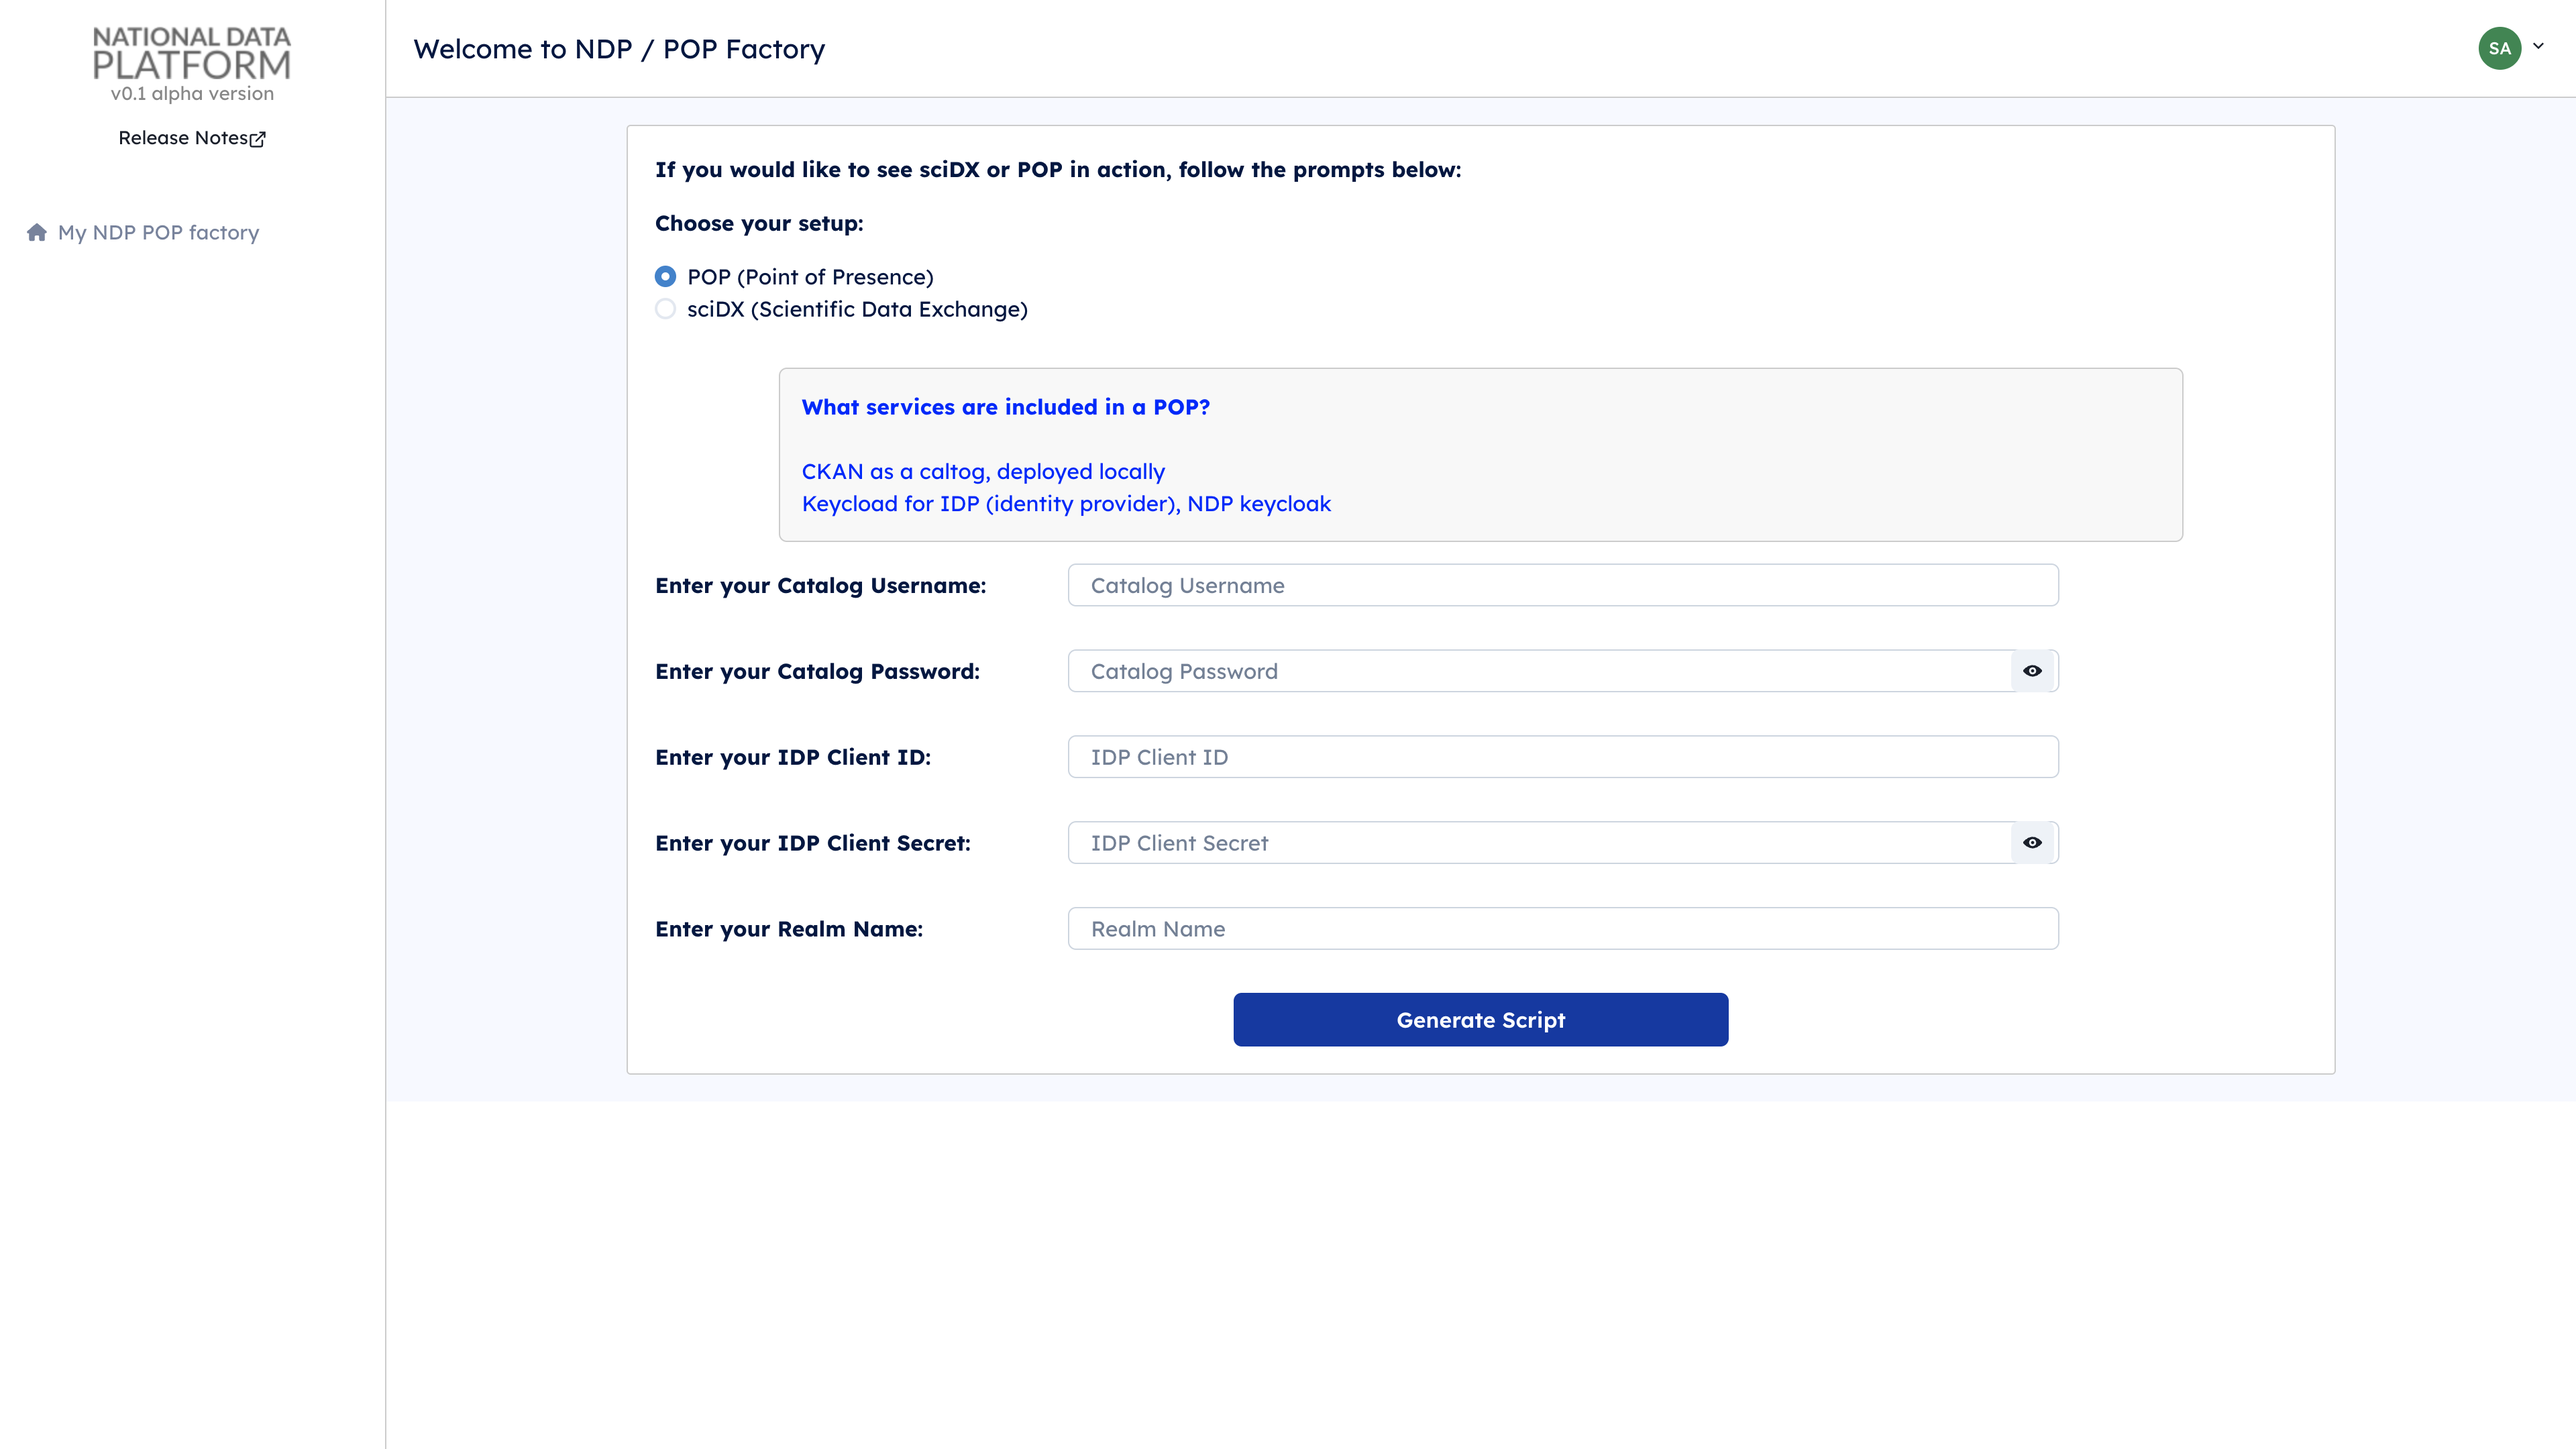
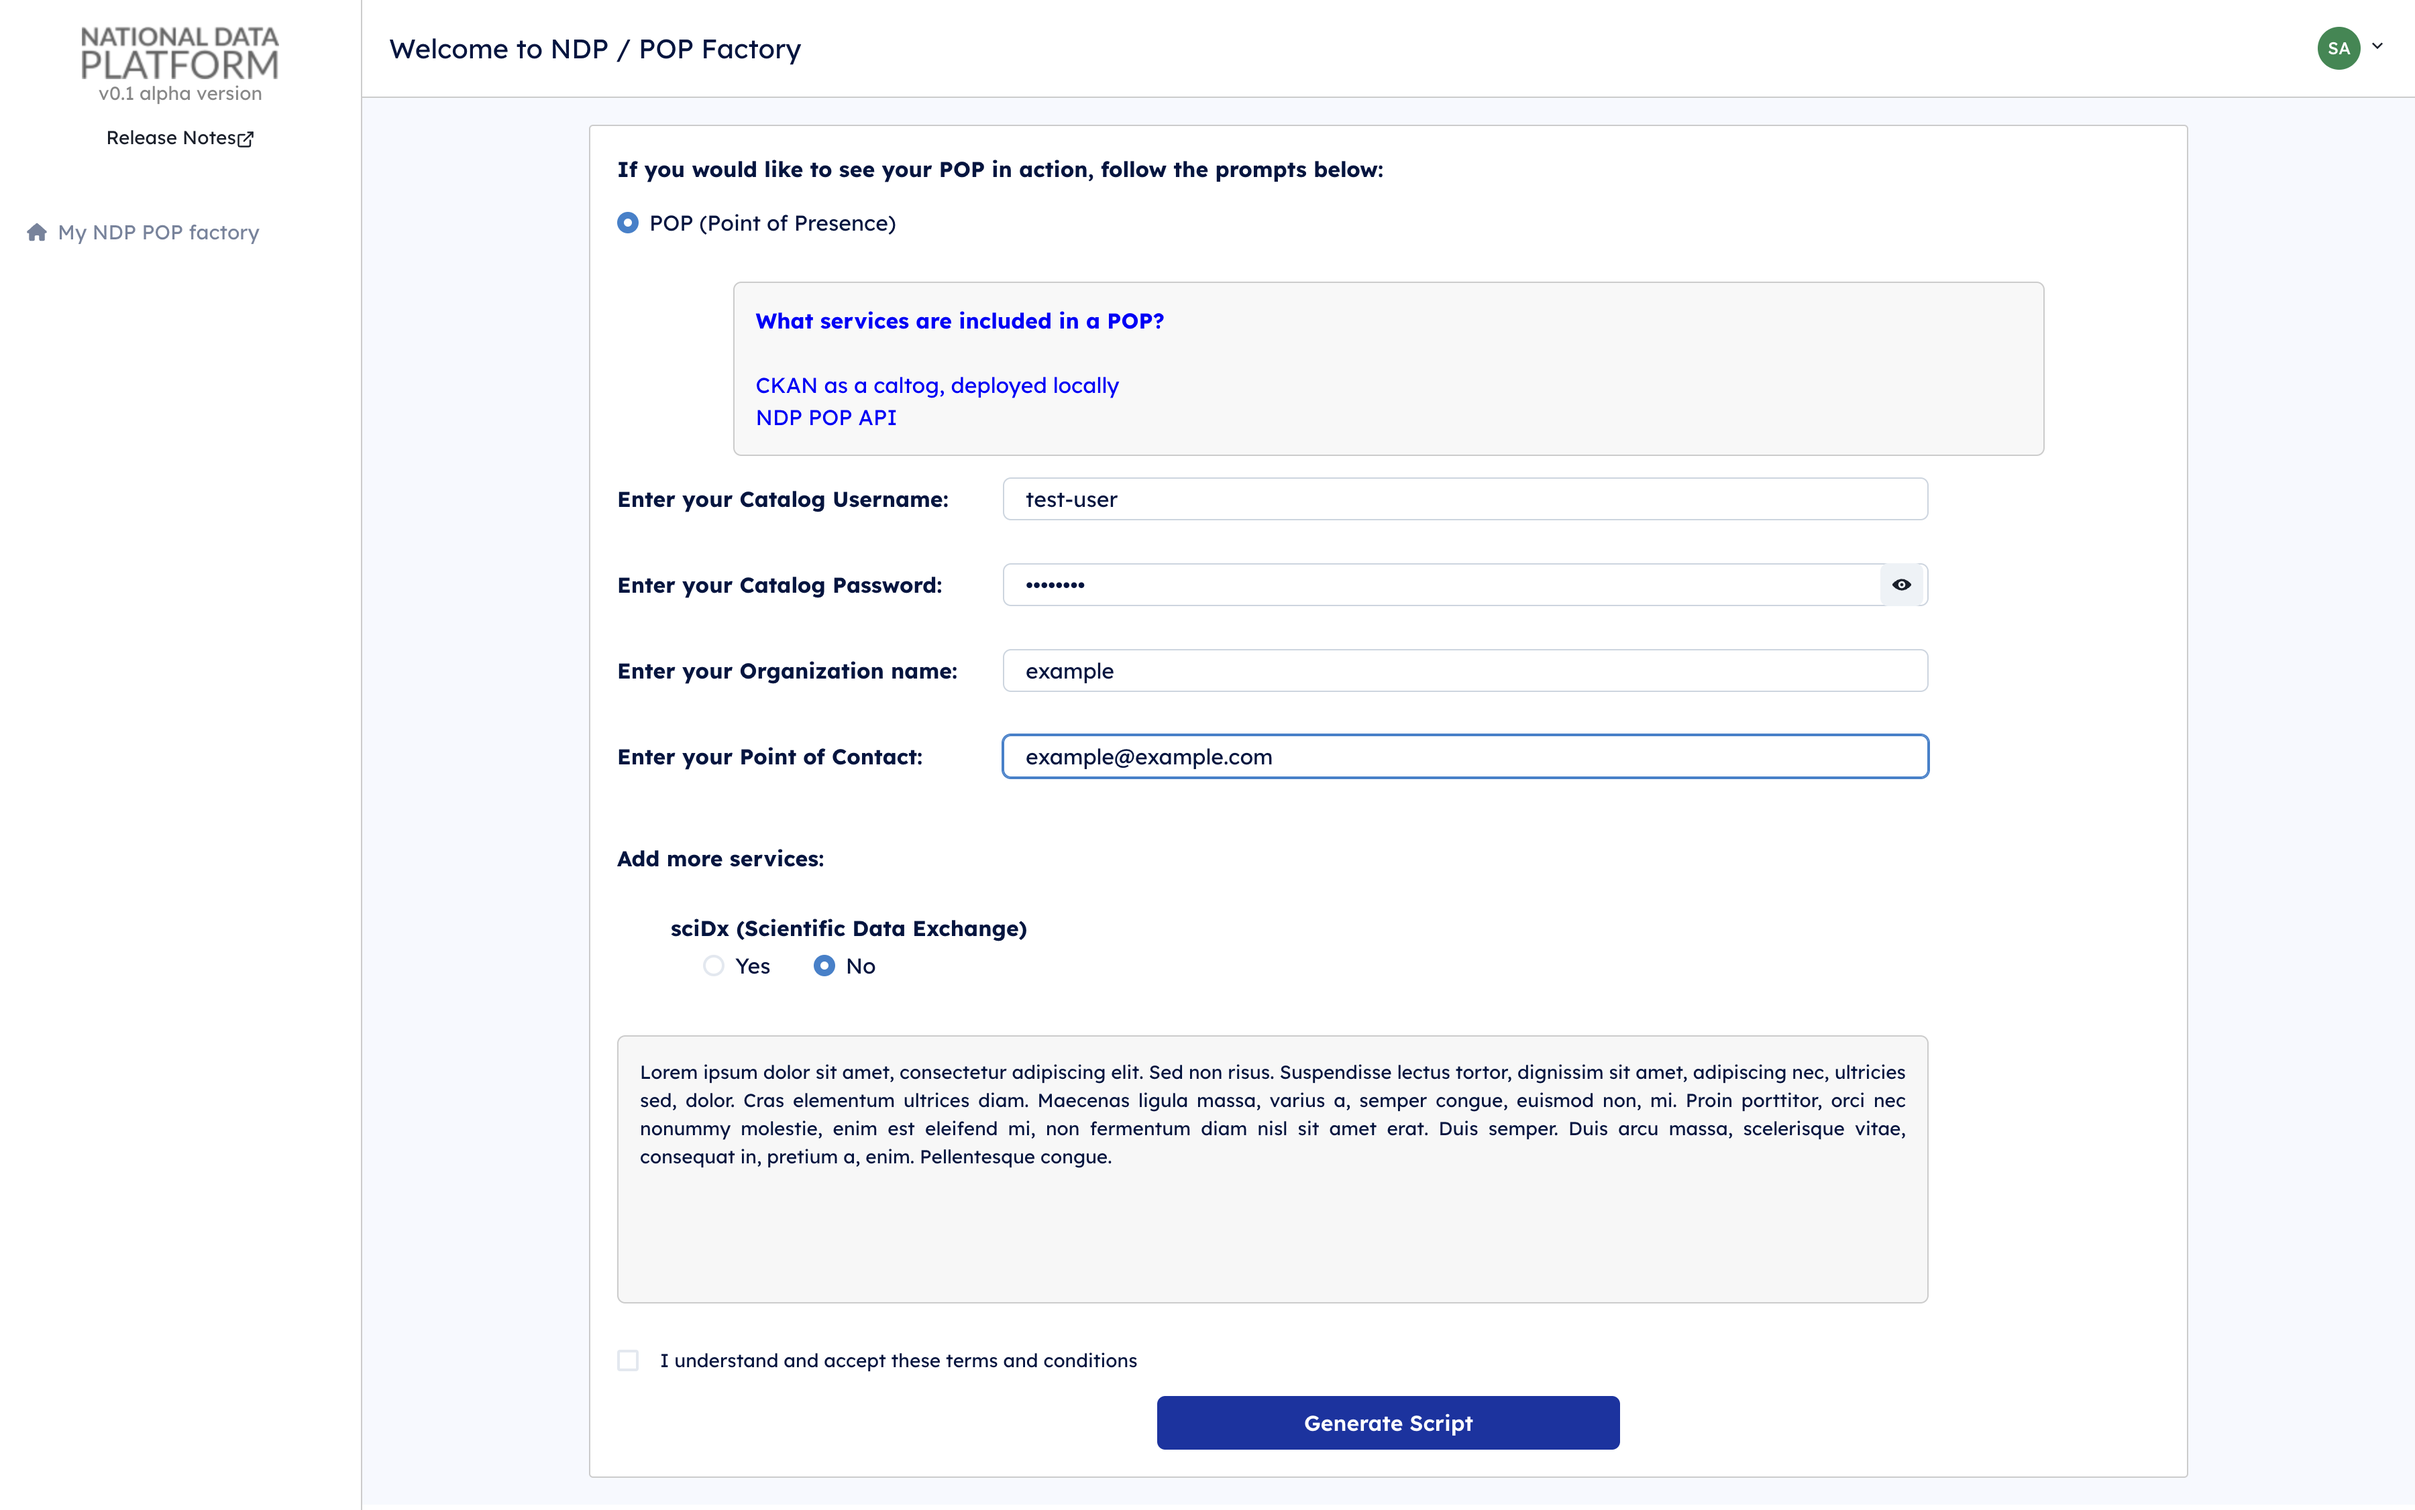
update-pop

diff --git a/docs/pop/setup.md b/docs/pop/setup.md
@@ -54,7 +54,7 @@ A form will appear asking for specific details:
    ![Step 5](./images/5.png)
 
 ## Step 6: Generate the Script
-Fill in the required fields and click on the **Proceed** to Accept the Terms of Service. Then press on the **Generate** button.
+Fill in the required fields and click on the **I understand and accept the terms and conditions** to Accept the Terms of Service. Then press on the **Generate Script** button.
 
    ![Step 6](./images/6.png)
 
@@ -70,8 +70,8 @@ On your server, open a text editor (like `nano` or `vim`) and paste the copied s
 
 ## Step 9: Run the Setup Script
 Run the script by executing the following command:
-    ```bash
-    bash setup.sh
+    ```
+    sudo bash setup.sh
     ```
     This will initiate the setup process for your POP environment. It will take around 5-6 minutes to complete the setup and configure all the connections and permissions.
 
